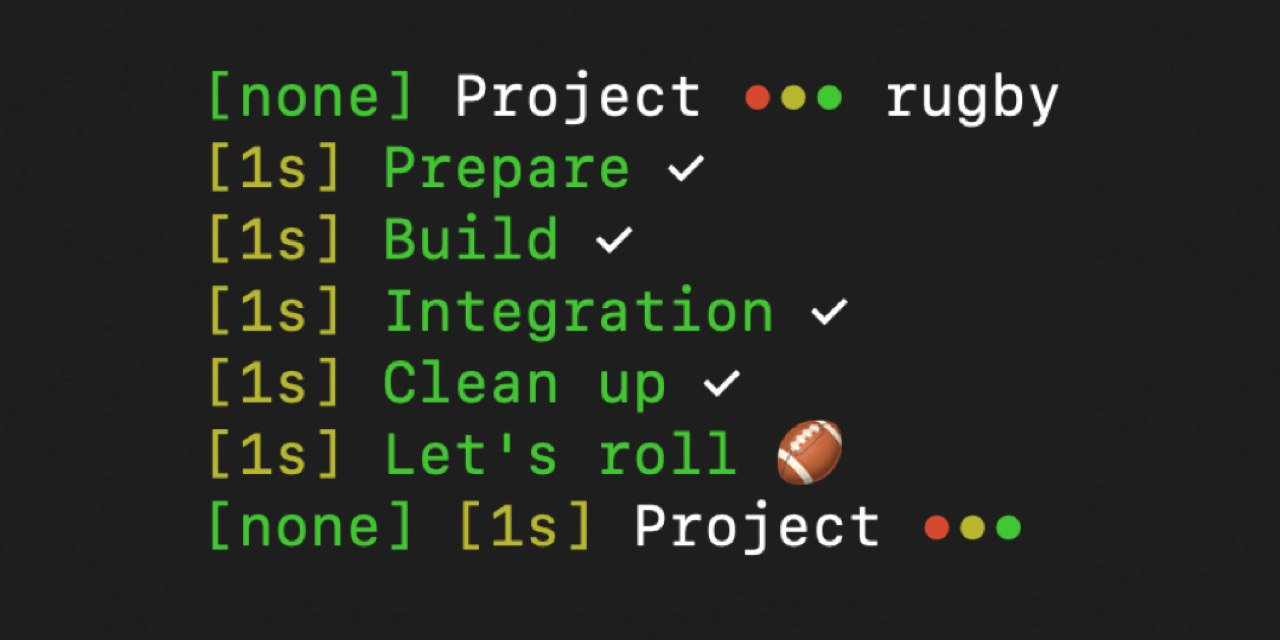
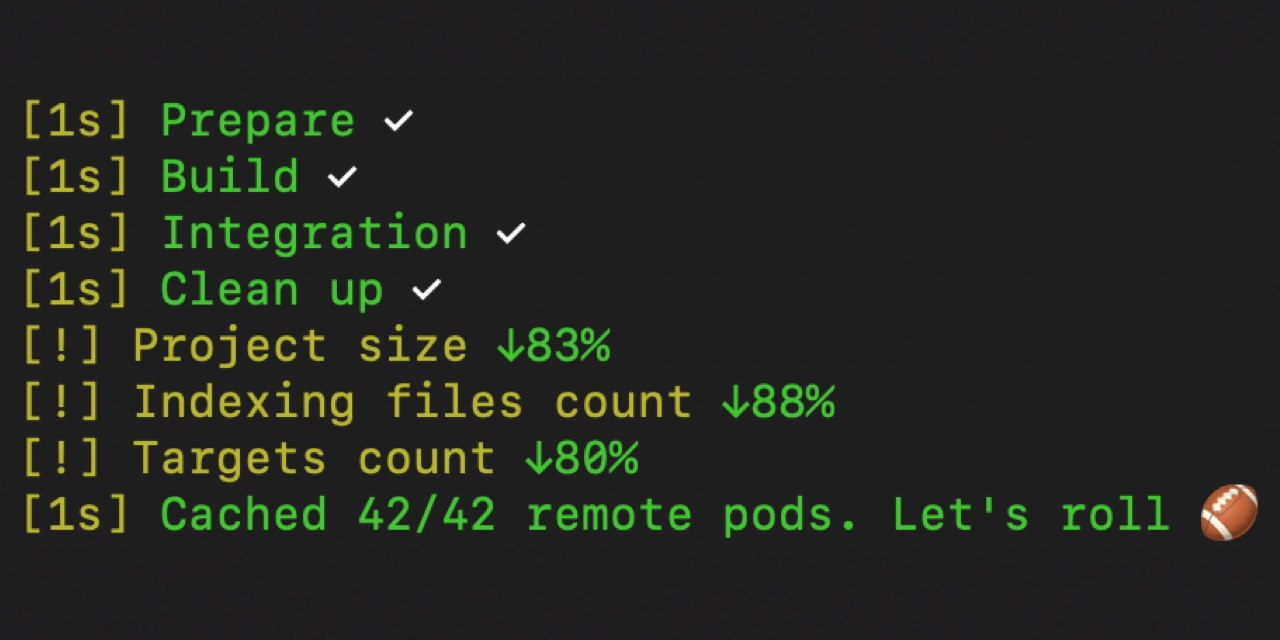
Bump version 1.4.0.

diff --git a/Formula/rugby.rb b/Formula/rugby.rb
@@ -1,7 +1,7 @@
 class Rugby < Formula
-  desc "🏈 Shake up pods project, build and throw away part of them."
+  desc "🏈 Shake up pods project, build and throw away part of it."
   homepage "https://github.com/swiftyfinch/Rugby"
-  version "1.3.0"
+  version "1.4.0"
   url "https://github.com/swiftyfinch/Rugby/releases/download/#{version}/rugby.zip"
 
   def install

diff --git a/README.md b/README.md
@@ -3,7 +3,7 @@
   <sup>(<ins>like Ruby but with g</ins>)</sup>
 </h3>
 <p align="center">
-    <img src="https://github.com/swiftyfinch/Rugby/blob/main/Demo.gif" width="400"/>
+    <img src="https://github.com/swiftyfinch/Rugby/blob/main/Demo.gif" width="600"/>
 </p>
 <p align="center">
   <img src="https://img.shields.io/badge/Swift-orange.svg?logo=swift&logoColor=white" />
@@ -54,10 +54,9 @@ $ rugby
 
 ### `Maybe Roadmap`
 
-- [x] Pause for refactoring, tests, pipelines
-- [ ] Output metrics
+- [x] Output metrics
+- [ ] Rugby plans
 - [ ] New command
-- [ ] Rugby plans :)
 - [ ] Open source
 
 ### `Author`

diff --git a/Docs/Cache.md b/Docs/Cache.md
@@ -1,7 +1,7 @@
 
 ## 🏈 `Cache`
 
-Remove remote pods from project, build them and integrate as frameworks and bundles.\
+Convert remote pods to prebuilt dependencies.\
 Call it after each `pod install` or `pod update`.
 
 ### General usage
@@ -56,13 +56,4 @@ $ rugby --sdk ios
 
 # short
 $ rugby -s ios
-```
-
-##### In any unclear situation (ignore cache)
-
-```bash
-$ rugby --rebuild
-
-# short
-$ rugby -r
 ```
